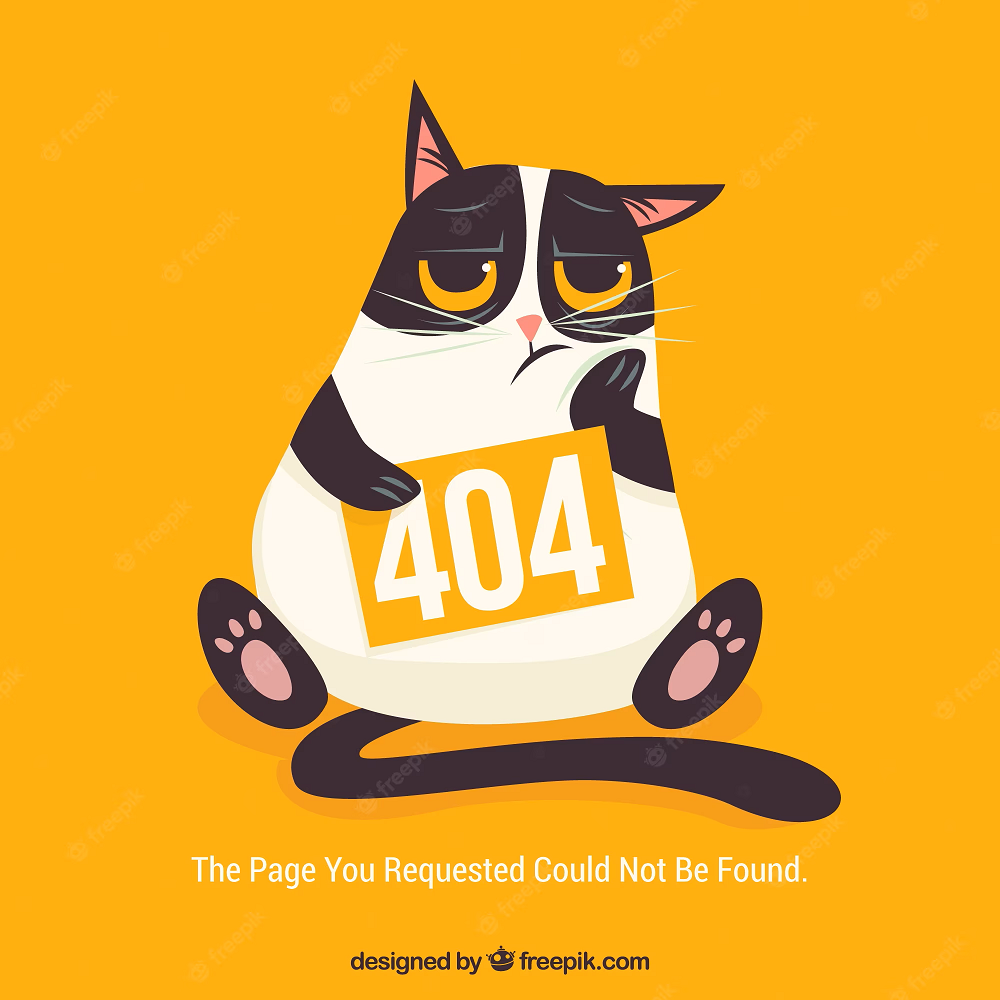
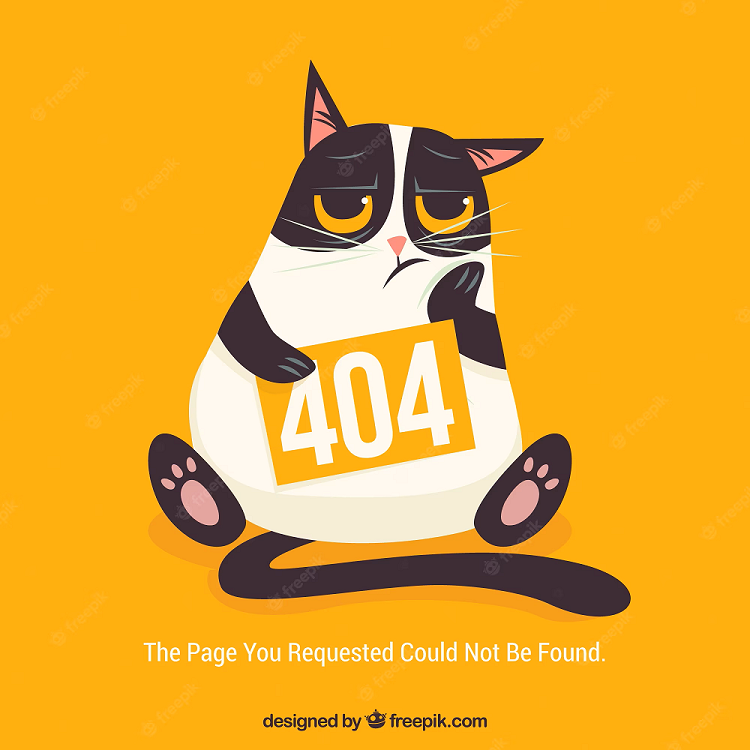
modif html css component notfound and formlogin

diff --git a/src/app/components/hotels/hotels.component.html b/src/app/components/hotels/hotels.component.html
@@ -38,10 +38,9 @@
                               </p> 
                             </div>                   
                               <h4 class="card-title text-center text-danger">{{hotel.hotelName}}</h4>
-                              <p class="card-text">{{hotel.address}}</p>
-                              <p class="card-text">Tél : <small>{{hotel.phone}}</small></p>
                               <p class="card-text">Nombre d'étoiles : <small>{{hotel.nbStar}}</small></p>
                               <p class="card-text">Prix/Nuit : <small>{{hotel.priceRoom | currency : 'EUR'}}</small></p>
+                              <h5 class="card-text fs-5 text-center text-success">{{hotel.city.cityName}}</h5>
                               <div *ngIf="this.authService.isLoggedIn()">
                                 <a class="btn btn-danger me-2 ms-2" *ngIf="this.authService.isAdmin()" (click)="onDeleteHotel(hotel)">Delete</a>
                                 <a class="btn btn-success" (click)="onUpdateHotel(hotel)" >Edit</a>

diff --git a/src/app/components/form-login/form-login.component.html b/src/app/components/form-login/form-login.component.html
@@ -3,11 +3,11 @@
         <form [formGroup]="myForm" (ngSubmit)="login(myForm)">
             <div class="form-group">
                 <label class="control-label">Username :</label>
-                <input type="text" formControlName="username" class="form-control">
+                <input type="text" formControlName="username" class="form-control" placeholder="username">
             </div>
             <div class="form-group">
                 <label class="control-label">Password :</label>
-                <input type="password" formControlName="password" class="form-control">
+                <input type="password" formControlName="password" class="form-control" placeholder="password">
             </div>
             <button type="submit" class="btn btn-success mt-2" >Valider</button>            
         </form>

diff --git a/src/app/components/admin/admin.component.ts b/src/app/components/admin/admin.component.ts
@@ -22,8 +22,8 @@ export class AdminComponent {
     }
   
   ngOnInit(): void {
-    this.getListCities;
-    this.getListManagers
+    this.getListCities();
+    this.getListManagers();
   }
   getListCities(){
     this.apiService.getAllCities().subscribe({
@@ -66,7 +66,7 @@ export class AdminComponent {
       error : (err)=> this.error = "problème à la suppression",
       complete : () => this.router.navigateByUrl('admin'),
     })
-    confirm('Voulez-vous vraiment supprimer cette ville ?');
+    confirm('Voulez-vous vraiment supprimer cet utilisateur ?');
     window.location.reload();
   }
 }

diff --git a/src/app/services/api.service.ts b/src/app/services/api.service.ts
@@ -24,7 +24,7 @@ export class ApiService {
   public postPhotoHotels(file : File, id : number){
     let formData : FormData = new FormData();
     formData.append('file', file);
-    return this.http.post<any>(environment.host+'/photo/'+id, formData);
+    return this.http.post<any>(environment.host+'/photo/'+id, formData, {headers : new HttpHeaders({'Authorization' : this.authService.getToken()})});
   }
   public getHotelById(id : number){
     return this.http.get<Hotel>(environment.host+ '/hotels/'+id)

diff --git a/src/app/app.component.html b/src/app/app.component.html
@@ -10,7 +10,7 @@
   </ul>
   <ul class="navbar-nav ms-auto" >
       <li *ngIf="isLoggedIn()" >
-          <span class="fs-3 text-capitalize text-white">{{this.authService.getUser().username}}</span>
+          <span class="fs-3 text-capitalize text-white"*ngIf="!this.authService.isAdmin()">{{this.authService.getUser().username}}</span>
         </li>
       <ng-container *ngIf="this.authService.getToken() == null , else elseBlock" >
       <li class="nav-item">

diff --git a/src/app/components/not-found/not-found.component.html b/src/app/components/not-found/not-found.component.html
@@ -1,3 +1,3 @@
-<div class="justify-content-center">
-    <img src="../assets/images/404.png"/>
+<div class="text-center">
+    <img class="rounded" src="../assets/images/404.png" alt="error 404"/>
 </div>
